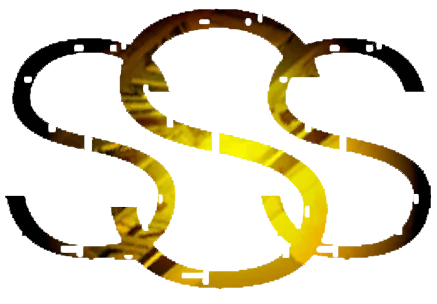
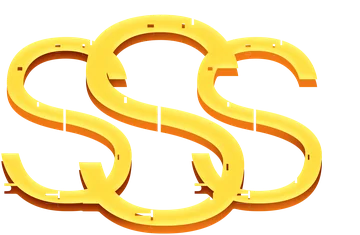
Give each rank level its own badge and show a rank on every card
Rank badges are redrawn, and levels now have their own art (S5, SS3, SS6,
SSS3, SSS6), so the number drawn over the badge is gone. Badges are a bit
larger on the card.

Every card now shows a rank, on the site and in the exported image. Builds
that don't set one show SSS on free frames and SS on the rest.

Browsers kept the old badges for 7 days under the same names, so _headers
makes them ask first, and web() adds ?v=2 to get past copies already cached.

BC Calculator: patches get a line between them, and the Eneba prices date
moves to 7 Nov 2026.

diff --git a/app.js b/app.js
@@ -10,7 +10,7 @@
    Extra fields: symbol (class icon), weapon, wh (Weapon Harmony memory name, framed in
    WH_FRAME), memories (6), matrix (3 weapon resonances),
    resonance + core (the two "6x" icons), construct (CUB), skills (6 CUB skills),
-   rank (badge beside the portrait), rankLevel (the number after it: SS3 is SS with rankLevel 3).
+   rank (badge beside the portrait; levels have their own file, like SS3.png. Left out, it is SSS on free frames and SS on the rest).
    ===================================================== */
 const CHARS = "assets/characters", MEM = "assets/memories", RES = "assets/resonances";
 const WEAPON_RES = n => `${RES}/Ressonância de Arma - ${n} HD.png`;
@@ -249,7 +249,8 @@ const NEW_CHARACTER_NOTICE = {
 };
 
 // Ranks a build is made for
-const RANK_SS = { rank: "assets/rank/SS.png" }, RANK_SS3 = { ...RANK_SS, rankLevel: 3 };
+const RANK_SS = { rank: "assets/rank/SS.png" }, RANK_SS3 = { rank: "assets/rank/SS3.png" };
+const rankArt = c => c.rank || (TL_FREE[c.name] ? "assets/rank/SSS.png" : RANK_SS.rank);
 // A Comet's Afterglow teams follow Spider 2B's Leia guide. Leia's build only changes with her rank
 const LEIA_SS = { ...RANK_SS, wh: "Chen Jiyuan", memories: memBuild(MOUSME, CHEN_JIYUAN),
   desc: "Without Weapon Harmony, use 2 Einsteina instead of 2 Chen Jiyuan. Breaker class skill also works on the bottom resonance." };
@@ -550,7 +551,8 @@ const slug = s => s.toLowerCase().replace(/\s+/g, "-");
 const esc = s => String(s).replace(/[&<>"]/g, c => ({ "&": "&amp;", "<": "&lt;", ">": "&gt;", '"': "&quot;" }[c]));
 // Images load from the light copies made by tools/optimize-images.mjs. The data keeps the original path, which stays in
 // data-full: the error handler falls back to it, and style.css reads its extension to scale the memory art
-const web = src => src.replace("assets/", "assets-web/") + ".webp";
+// ?v=2: browsers kept the old rank badges for 7 days under these same names, and a new address is the only way past that copy
+const web = src => src.replace("assets/", "assets-web/") + ".webp" + (src.startsWith("assets/rank/") ? "?v=2" : "");
 const pic = (src, attrs = 'alt=""') => `<img src="${esc(web(src))}" data-full="${esc(src)}" ${attrs} loading="lazy" decoding="async">`;
 // Name shown when hovering an icon, read from its file name ("Memória - Cottie 1-4.png" is "Cottie")
 function iconName(src = "") {
@@ -710,7 +712,7 @@ function card(c) {
     <h3><a href="${characterHref(c.name)}">${esc(c.name)}</a></h3>
     <div class="top"><div class="sym slot"${tipAttr(c.symbol && iconName(c.symbol))}>${c.symbol ? pic(c.symbol) : "icon"}</div>
       <div class="portrait slot"${tipAttr(c.portrait && c.name)}>${c.portrait ? pic(c.portrait, `alt="${esc(c.name)}"`) : "portrait"}</div>
-      ${c.rank ? `<div class="rank"${tipAttr(iconName(c.rank) + (c.rankLevel || ""))}>${pic(c.rank, 'alt="rank"')}${c.rankLevel ? `<b>${c.rankLevel}</b>` : ""}</div>` : ""}</div>
+      <div class="rank"${tipAttr(iconName(rankArt(c)))}>${pic(rankArt(c), 'alt="rank"')}</div></div>
     <div class="box">
       <div class="mem">${n(6, i => memory((c.memories || [])[i], i)).join("")}</div>
       <div class="wp">${slot(c.weapon, weapon || "weapon", STARS, weapon, weapon && weaponHref(weapon), weaponEffect)}${weaponArt(c)}</div>
@@ -1317,7 +1319,7 @@ const CALC_SPENDING = [
 // Monthly Pass A pays on the day it is bought and then once a day, so it can run into the next patch
 const MONTHLY_PASS = { upfront: 300, daily: 100, days: 30 };
 // Eneba prices before checkout fees: [RC, BRL, USD]. tools/update-prices.mjs rewrites these two lines
-const RC_PRICES_DATE = "6 Nov 2026";
+const RC_PRICES_DATE = "7 Nov 2026";
 const RC_PACKS = [[5, 4.40, 1.07], [28, 22.57, 4.34], [34, 27.76, 5.29], [59, 45.93, 8.62], [71, 54.59, 10.20], [119, 90.92, 16.86], [299, 229.36, 42.20], [600, 458.64, 84.16]];
 const RC_STORE = "https://www.eneba.com/top-up-punishing-gray-raven-android-rainbow-cards-global";
 const COST = { S: 15000, A: 2500, weapon: 7500, cub: 5000, frameShard: 804, resonance: 150, shardVouchers: 120 };
@@ -1820,7 +1822,7 @@ const loadImage = src => new Promise(done => {
   };
   img.src = web(src);
 });
-const cardArt = c => [c.symbol, c.portrait, c.rank, c.weapon, c.resonance, c.core, c.construct, c.wh && memFile(c.wh, "WH", "png"),
+const cardArt = c => [c.symbol, c.portrait, rankArt(c), c.weapon, c.resonance, c.core, c.construct, c.wh && memFile(c.wh, "WH", "png"),
   ...(c.memories || []), ...(c.matrix || []), ...(c.skills || [])].filter(src => src?.startsWith("assets/"));
 function drawArt(g, img, x, y, w, h, { fit = "cover", zoom = 1, ox = 50, oy = 50 } = {}) {
   if (!img) return;
@@ -1887,8 +1889,7 @@ function drawCard(g, c, art, cardColor, stars, x, y, flare) {
   drawSlot(g, px, top, size, size);
   drawArt(g, art.get(c.portrait), px, top, size, size);
   const rankX = x + w - 130;
-  if (c.rank) drawArt(g, art.get(c.rank), rankX, top + 30, 90, 70, { fit: "contain" });
-  if (c.rankLevel) drawText(g, c.rankLevel, rankX + 88, top + 98, exportFont(24));
+  drawArt(g, art.get(rankArt(c)), rankX, top + 30, 90, 70, { fit: "contain" });
   // Memories, weapon, Weapon Harmony, resonances
   const boxY = top + size + 14, boxH = 212, pad = 8;
   g.fillStyle = "#ffffff0d";

diff --git a/style.css b/style.css
@@ -155,9 +155,8 @@ h2.grp::after{content:"";flex:1;height:1px;background:var(--line)}
 .top{display:grid;grid-template-columns:1fr auto 1fr;gap:calc(14*var(--u));align-items:center;margin-bottom:calc(20*var(--u))}
 .sym{width:100%;max-width:calc(60*var(--u));aspect-ratio:1;justify-self:center}
 .portrait{width:calc(112*var(--u));height:calc(112*var(--u));border:1px solid #ffffff55}
-.rank{position:relative;width:100%;max-width:calc(62*var(--u));justify-self:center}
+.rank{width:100%;max-width:calc(80*var(--u));justify-self:center}
 .rank img{display:block;width:100%;height:auto;filter:drop-shadow(0 1px 2px #0009)}
-.rank b{position:absolute;right:calc(-5*var(--u));bottom:calc(-5*var(--u));font-size:calc(17*var(--u));line-height:1;text-shadow:0 0 4px #000,0 1px 3px #000}
 .sym:has(img){background:none;border:0}
 .sym img,.wp img{object-fit:contain}
 .box{background:#ffffff0d;padding:calc(12*var(--u));margin-bottom:calc(14*var(--u));display:flex;gap:calc(12*var(--u))}
@@ -334,7 +333,7 @@ nav a.sr{justify-content:flex-start;align-items:center;gap:10px;padding:6px 8px;
 #calc select{cursor:pointer}
 .calc-card{padding:18px 20px;background:var(--panel);border:1px solid var(--line);border-top:3px solid var(--red)}
 .calc-patch{padding:0}
-.calc-patch+.calc-patch{margin-top:8px}
+.calc-patch+.calc-patch{margin-top:8px;border-top:1px solid var(--line)}
 .calc-patch summary{display:grid;grid-template-columns:minmax(0,1fr) auto;align-items:center;gap:8px 16px;padding:12px 16px 12px 34px;position:relative;cursor:pointer;list-style:none}
 .calc-patch summary::-webkit-details-marker{display:none}
 .calc-patch summary::before{content:"▸";position:absolute;left:14px;top:14px;color:var(--mute)}
